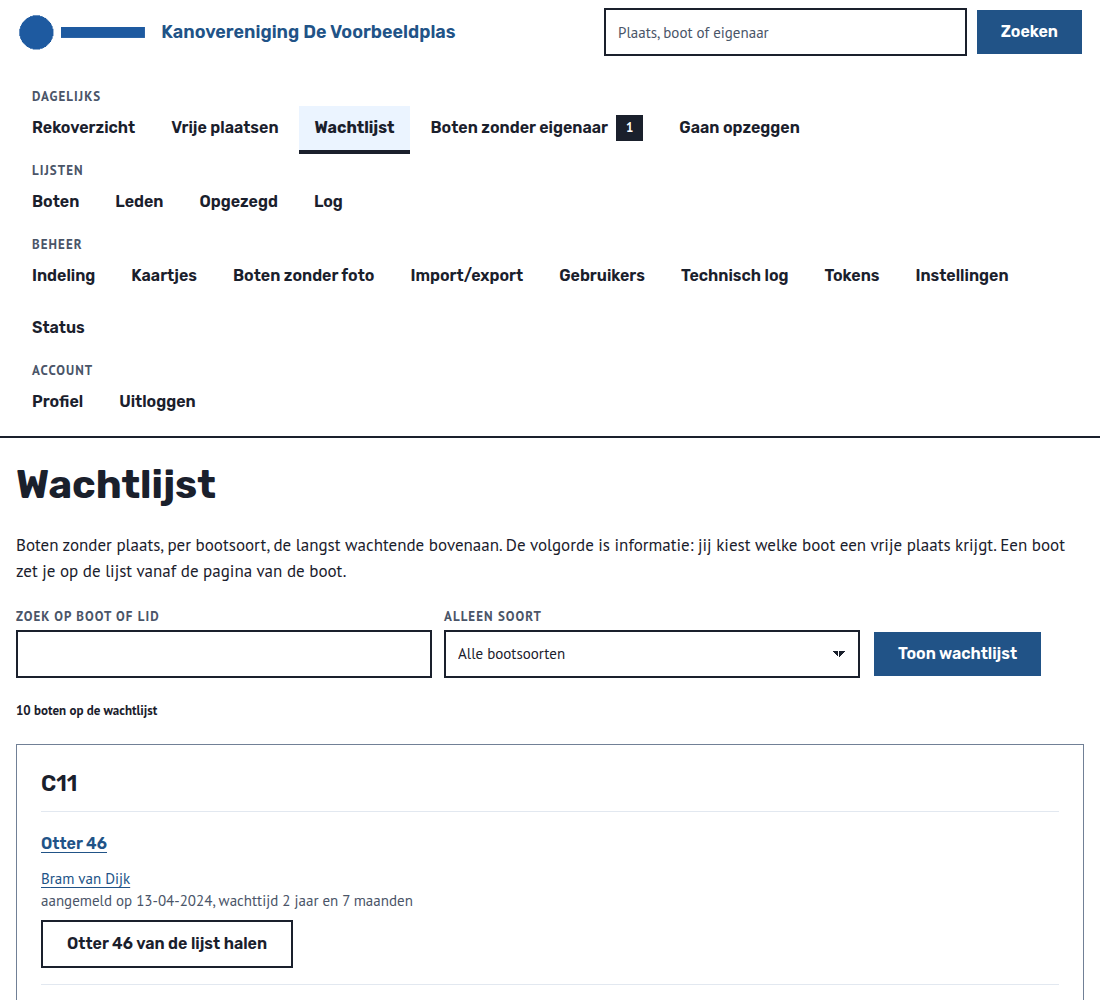
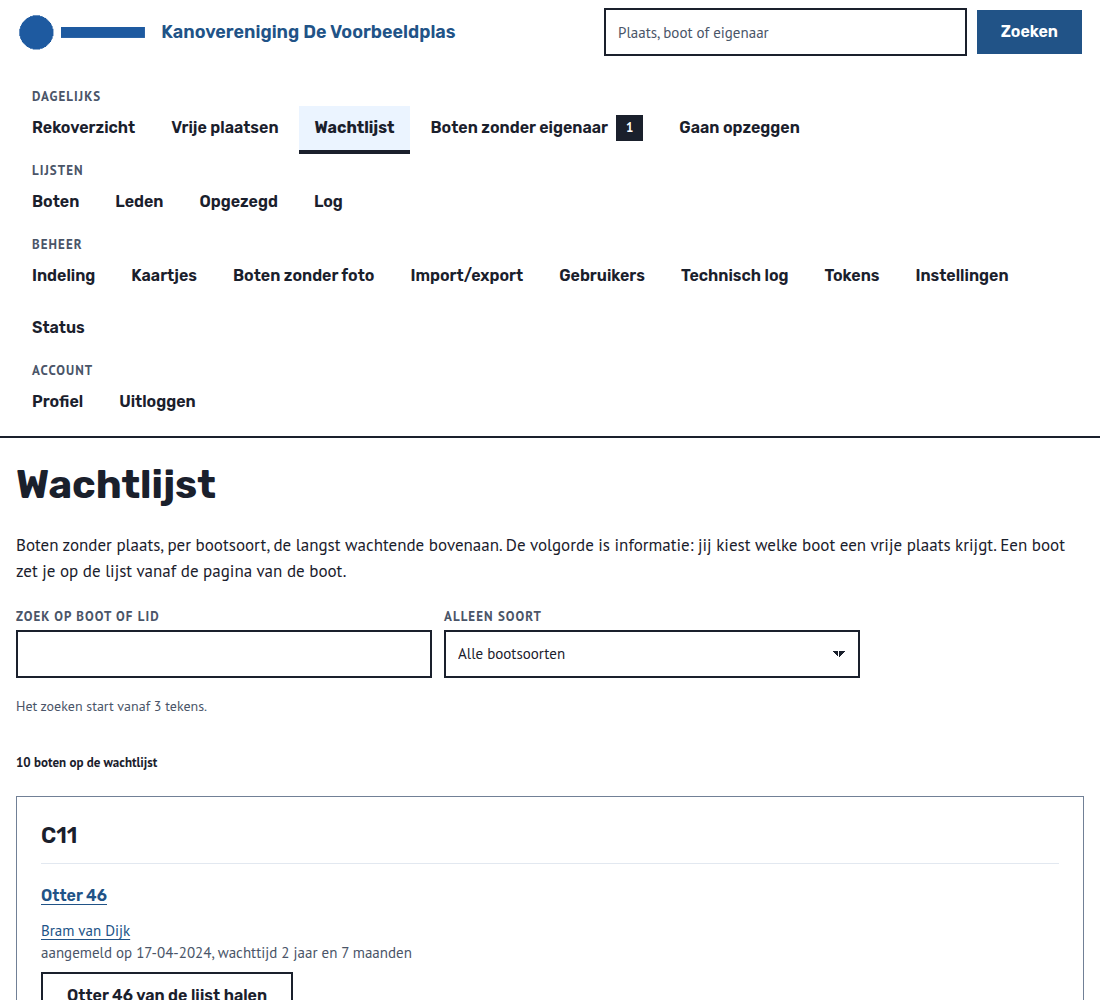
Filters zonder knop: bootsoort direct, zoeken vanaf 3 tekens (#380) (#382)
Op Vrije plaatsen, Wachtlijst en Boten ververst lijstfilter.js alleen het
lijstdeel bij een andere keuze of vanaf 3 tekens in het zoekveld; de focus
blijft staan en een statusveld meldt het aantal. Zonder script blijft de knop
als reserve. ADR-002, backlog, handleiding en schermafbeeldingen bijgewerkt.
Toets Design System (BV-98) verwerkt.

Review: Sentinel en Aegis, akkoord (twee rondes); toets Design System verwerkt

Claude-Session: https://claude.ai/code/session_01Dq19tw8kfJi9T5x7PuYf8y

Changed region(s): [[0.0, 0.744, 0.3709, 1.0], [0.7727, 0.62, 0.9582, 0.682], [0.0, 0.682, 0.1855, 0.713]]

diff --git a/app/web/static/lijstfilter.js b/app/web/static/lijstfilter.js
@@ -1,0 +1,70 @@
+// Filter zonder knop (#380): een keuze of het typen ververst alleen de lijst, niet de pagina.
+// Zonder script blijft de knop in de HTML staan en werkt het formulier als gewone GET.
+(function () {
+  const MIN_TEKENS = 3;
+  const PAUZE_MS = 300;
+  const form = document.querySelector("form[data-lijstfilter]");
+  const deel = document.querySelector("[data-lijstdeel]");
+  const status = document.querySelector("[data-lijststatus]");
+  if (!form || !deel || !status) return;
+
+  const zoek = form.elements.zoek;
+  let timer;
+  let aanvraag;
+
+  // De URL is die van het formulier; onder het minimum geldt de zoekterm niet.
+  function adres() {
+    const params = new URLSearchParams(new FormData(form));
+    if (zoek && zoek.value.trim().length < MIN_TEKENS) params.set("zoek", "");
+    return form.getAttribute("action") + "?" + params;
+  }
+
+  let laatste = adres();
+
+  async function vernieuw() {
+    clearTimeout(timer);
+    const url = adres();
+    if (url === laatste) return;
+    laatste = url;
+    if (aanvraag) aanvraag.abort();
+    aanvraag = new AbortController();
+    try {
+      const r = await fetch(url, { credentials: "same-origin", signal: aanvraag.signal });
+      const nieuw = new DOMParser().parseFromString(await r.text(), "text/html").querySelector("[data-lijstdeel]");
+      // Een fout of een inlogscherm (verlopen sessie) heeft geen lijst: laad de pagina gewoon.
+      if (!r.ok || !nieuw) {
+        window.location.assign(url);
+        return;
+      }
+      const melding = nieuw.querySelector(".bl-aantal, .ds-notice__body");
+      // Eerst leeg: een gelijke tekst wordt anders niet opnieuw voorgelezen.
+      status.textContent = "";
+      status.textContent = melding ? melding.textContent.trim() : "";
+      deel.replaceChildren(...nieuw.childNodes);
+      history.replaceState(null, "", url);
+    } catch (e) {
+      if (e.name !== "AbortError") window.location.assign(url);
+    }
+  }
+
+  form.querySelector('button[type="submit"]').hidden = true;
+  const hint = form.querySelector("[data-zoekhint]");
+  if (hint) {
+    hint.hidden = false;
+    zoek.setAttribute("aria-describedby", hint.id);
+  }
+
+  form.addEventListener("submit", function (e) {
+    e.preventDefault();
+    vernieuw();
+  });
+  form.addEventListener("change", function (e) {
+    if (e.target.tagName === "SELECT") vernieuw();
+  });
+  if (zoek) {
+    zoek.addEventListener("input", function () {
+      clearTimeout(timer);
+      timer = setTimeout(vernieuw, PAUZE_MS);
+    });
+  }
+})();

diff --git a/app/web/templates/wachtlijst.html b/app/web/templates/wachtlijst.html
@@ -6,10 +6,11 @@
 <h1>Wachtlijst</h1>
 <p>Boten zonder plaats, per bootsoort, de langst wachtende bovenaan. De volgorde is informatie: jij kiest welke boot een vrije plaats krijgt. Een boot zet je op de lijst vanaf de pagina van de boot.</p>
 
-<form class="bl-filter" method="get" action="{{ url_for('web.wachtlijst_overzicht') }}" role="search" aria-label="Zoeken in Wachtlijst">
+<form class="bl-filter" method="get" action="{{ url_for('web.wachtlijst_overzicht') }}" role="search" aria-label="Zoeken in Wachtlijst" data-lijstfilter>
   <div class="ds-field">
     <label class="ds-field__label" for="wacht-zoek">Zoek op boot of lid</label>
     <input class="ds-input" type="search" id="wacht-zoek" name="zoek" value="{{ zoek }}" maxlength="100">
+    <p class="ds-field__hint" id="wacht-zoek-hint" data-zoekhint hidden>Het zoeken start vanaf 3 tekens.</p>
   </div>
   <div class="ds-field">
     <label class="ds-field__label" for="wacht-soort">Alleen soort</label>
@@ -20,6 +21,8 @@
   </div>
   <button type="submit" class="ds-btn ds-btn--primary">Toon wachtlijst</button>
 </form>
+<p class="dj-sr-only" role="status" data-lijststatus></p>
+<div data-lijstdeel>
 {% if lijsten %}
 {% set totaal = lijsten|sum(attribute=1, start=[])|length %}
 <p class="bl-aantal">{{ totaal }} {{ 'boot' if totaal == 1 else 'boten' }} op de wachtlijst</p>
@@ -46,6 +49,8 @@
 {% else %}
 {% call meldingblok() %}{{ 'Geen boten gevonden.' if zoek or soort_id else 'Er staan geen boten op de wachtlijst.' }}{% endcall %}
 {% endfor %}
+</div>
 
 {{ logblok(regels) }}
 {% endblock %}
+{% block scripts %}<script src="{{ url_for('static', filename='lijstfilter.js') }}"></script>{% endblock %}

diff --git a/app/web/templates/boten.html b/app/web/templates/boten.html
@@ -35,10 +35,11 @@
 </details>
 {% endif %}
 
-<form class="bl-filter" method="get" action="{{ url_for('web.boten_overzicht') }}" role="search" aria-label="Zoeken in Boten">
+<form class="bl-filter" method="get" action="{{ url_for('web.boten_overzicht') }}" role="search" aria-label="Zoeken in Boten" data-lijstfilter>
   <div class="ds-field">
     <label class="ds-field__label" for="boten-zoek">{{ "Zoek op boot of eigenaar" if is_kijker() else "Zoek op boot of lid" }}</label>
     <input class="ds-input" type="search" id="boten-zoek" name="zoek" value="{{ zoek }}" maxlength="100">
+    <p class="ds-field__hint" id="boten-zoek-hint" data-zoekhint hidden>Het zoeken start vanaf 3 tekens.</p>
   </div>
   <div class="ds-field">
     <label class="ds-field__label" for="boten-soort">Alleen soort</label>
@@ -49,6 +50,8 @@
   </div>
   <button type="submit" class="ds-btn ds-btn--primary">Toon boten</button>
 </form>
+<p class="dj-sr-only" role="status" data-lijststatus></p>
+<div data-lijstdeel>
 {% if boten %}
 <p class="bl-aantal">{{ boten|length }} {{ 'boot' if boten|length == 1 else 'boten' }}</p>
 <ul class="bl-lijst">
@@ -62,5 +65,7 @@
 {% else %}
 {% call meldingblok() %}{{ 'Geen boten gevonden.' if zoek or soort_id else 'Er zijn nog geen boten.' }}{% endcall %}
 {% endif %}
+</div>
 {{ logblok(regels) }}
 {% endblock %}
+{% block scripts %}<script src="{{ url_for('static', filename='lijstfilter.js') }}"></script>{% endblock %}

diff --git a/app/web/templates/vrij.html b/app/web/templates/vrij.html
@@ -6,7 +6,7 @@
 <h1>Vrije plaatsen</h1>
 <p>Plaatsen zonder boot, voor boten van leden. Clubplaatsen staan er niet in.</p>
 
-<form method="get" action="{{ url_for('web.vrije_plaatsen') }}" class="bl-filter">
+<form method="get" action="{{ url_for('web.vrije_plaatsen') }}" class="bl-filter" data-lijstfilter>
   <div class="ds-field">
     <label class="ds-field__label" for="bootsoort">Geschikt voor</label>
     <select class="dj-select" id="bootsoort" name="bootsoort"{% if gekozen %} autofocus{% endif %}>
@@ -19,6 +19,8 @@
   <button type="submit" class="ds-btn ds-btn--primary">Toon vrije plaatsen</button>
 </form>
 
+<p class="dj-sr-only" role="status" data-lijststatus></p>
+<div data-lijstdeel>
 {% if plaatsen %}
 <p class="bl-aantal">{{ plaatsen|length }} {{ 'vrije plaats' if plaatsen|length == 1 else 'vrije plaatsen' }}{% if gekozen %} voor {{ gekozen.naam|lower }}{% endif %}</p>
 <div class="ds-table-wrap">
@@ -38,6 +40,8 @@
 {% else %}
 {% call meldingblok() %}Er zijn geen vrije plaatsen{% if gekozen %} voor {{ gekozen.naam|lower }}{% endif %}.{% endcall %}
 {% endif %}
+</div>
 
 {{ logblok(regels) }}
 {% endblock %}
+{% block scripts %}<script src="{{ url_for('static', filename='lijstfilter.js') }}"></script>{% endblock %}

diff --git a/app/web/static/stijl.css b/app/web/static/stijl.css
@@ -165,11 +165,14 @@ td form { gap: var(--space-2); }
   .blad:last-child { break-after: auto; }
 }
 
-/* Vrije plaatsen (BV-44): keuzelijst en knop op een regel, aantal eronder; op een telefoon een kaart per plaats */
+/* Filters (BV-44, #380): velden en, zonder script, de knop op een regel, aantal eronder; zonder knop (script) staan de velden bovenaan; op een telefoon een kaart per plaats */
 .bl-filter { display: flex; flex-wrap: wrap; align-items: end; gap: var(--space-3); margin: 0; }
 .bl-filter .ds-field { flex: 1 1 16rem; max-width: 26rem; }
 .bl-filter .ds-btn { min-height: var(--control-height); }
+.bl-filter:has(> .ds-btn[hidden]) { align-items: start; }
 .bl-aantal { margin: 0; color: var(--ink); font: var(--type-label); }
+/* #380: het lijstdeel dat lijstfilter.js vervangt, met dezelfde ruimte als de kinderen van main */
+.bl-main > [data-lijstdeel] { display: grid; gap: var(--space-5); }
 @media (width < 40rem) {
   .bl-vrij tr { display: grid; grid-template-columns: 1fr 1fr; column-gap: var(--space-4); margin-bottom: var(--space-3); padding-block: var(--space-1); }
   .bl-vrij td { gap: 0; padding-block: var(--space-1); }

diff --git a/tests/e2e/test_lijstfilter.py b/tests/e2e/test_lijstfilter.py
@@ -1,0 +1,87 @@
+"""Filters zonder knop (#380) op /vrij, /wachtlijst en /boten: een andere keuze filtert direct, zoeken
+begint bij 3 tekens, alleen de lijst ververst en de focus blijft staan. Zonder script werkt de knop.
+Eén inlogverzoek; de boten heten Zxq en Yxq met de stempel, zodat alleen de eigen rijen tellen."""
+
+import re
+
+from conftest import STEMPEL, reknaam, wachtwoord_instellen
+from playwright.sync_api import expect
+from test_loods import boot_vastleggen, rek_met_plaats
+
+PAUZE_MS = 800  # ruim boven de 300 ms wachttijd na het typen
+
+
+def op_de_wachtlijst(page, naam, soort):
+    boot_vastleggen(page, naam, soort, eigenaar_index=2)
+    page.get_by_role("button", name="Op de wachtlijst zetten").click()
+    expect(page.get_by_text("De boot staat op de wachtlijst.")).to_be_visible()
+
+
+def test_filters_zonder_knop_op_vrij_wachtlijst_en_boten(page, browser, base_url):
+    wachtwoord_instellen(page, "lijstfilter")
+    ski = rek_met_plaats(page, reknaam("lfs"), ["Surfski"])
+    kajak = rek_met_plaats(page, reknaam("lfk"), ["Kajak"])
+    zxq, yxq = f"Zxq {STEMPEL}", f"Yxq {STEMPEL}"
+    op_de_wachtlijst(page, zxq, "Kajak")
+    op_de_wachtlijst(page, yxq, "Surfski")
+    meldingen, verzoeken = [], []
+    page.on("console", lambda m: meldingen.append(m.text) if m.type == "error" else None)  # ook een CSP-fout
+    page.on("request", lambda r: verzoeken.append(r.url) if r.resource_type in ("fetch", "xhr") else None)
+
+    # Een keuze zonder klik: de knop is weg, de lijst verandert, de focus blijft, de URL volgt het formulier.
+    for pad, knop, label, eigen, vreemd in (
+            ("/vrij", "Toon vrije plaatsen", "Geschikt voor", ski, kajak),
+            ("/wachtlijst", "Toon wachtlijst", "Alleen soort", yxq, zxq),
+            ("/boten", "Toon boten", "Alleen soort", yxq, zxq)):
+        page.goto(pad)
+        expect(page.locator("main").get_by_role("button", name=knop)).to_be_hidden()
+        page.get_by_label(label).focus()  # select_option zet de focus niet zelf
+        page.get_by_label(label).select_option(label="Surfski")
+        expect(page).to_have_url(re.compile(rf"{pad}\?(zoek=&)?bootsoort=\d+$"))
+        expect(page.get_by_role("link", name=eigen, exact=True)).to_be_visible()
+        expect(page.get_by_role("link", name=vreemd, exact=True)).to_have_count(0)
+        expect(page.get_by_label(label)).to_be_focused()
+        expect(page.get_by_role("status").filter(has_text=re.compile(r"^\d+ "))).to_have_count(1)  # het aantal treffers
+        page.get_by_label(label).select_option(label="Alle bootsoorten")
+        expect(page.get_by_role("link", name=vreemd, exact=True)).to_be_visible()
+        expect(page).to_have_url(re.compile(rf"{pad}\?(zoek=&)?bootsoort=$"))
+
+    # Zoeken: 2 tekens geen zoekactie, 3 tekens wel, de focus blijft in het zoekveld, wissen toont alles.
+    for pad, label in (("/wachtlijst", "Zoek op boot of lid"), ("/boten", "Zoek op boot of lid")):
+        page.goto(pad)
+        veld = page.get_by_label(label)
+        expect(page.get_by_text("Het zoeken start vanaf 3 tekens.")).to_be_visible()
+        expect(veld).to_have_attribute("aria-describedby", re.compile(r"-zoek-hint$"))  # het script koppelt de hint
+        verzoeken.clear()
+        veld.press_sequentially("Zx", delay=50)
+        page.wait_for_timeout(PAUZE_MS)
+        assert not verzoeken, verzoeken
+        expect(page.get_by_role("link", name=yxq, exact=True)).to_be_visible()
+        expect(page).not_to_have_url(re.compile("Zx"))
+        veld.press_sequentially("q", delay=50)
+        expect(page.get_by_role("link", name=yxq, exact=True)).to_have_count(0)
+        expect(page.get_by_role("link", name=zxq, exact=True)).to_be_visible()
+        expect(page).to_have_url(re.compile(r"zoek=Zxq"))
+        expect(veld).to_be_focused()
+        veld.press("Backspace")  # terug onder de 3 tekens: de term geldt niet meer
+        expect(page.get_by_role("link", name=yxq, exact=True)).to_be_visible()
+        expect(veld).to_be_focused()
+    assert not meldingen, meldingen
+
+    # Zonder JavaScript staat de knop er en filtert hij met een gewone GET.
+    kaal = browser.new_context(base_url=base_url, java_script_enabled=False,
+                               storage_state=page.context.storage_state()).new_page()
+    kaal.goto("/wachtlijst")
+    expect(kaal.get_by_label("Zoek op boot of lid")).not_to_have_attribute("aria-describedby", re.compile("."))
+    expect(kaal.get_by_text("Het zoeken start vanaf 3 tekens.")).to_be_hidden()
+    for pad, knop, label in (("/vrij", "Toon vrije plaatsen", "Geschikt voor"),
+                             ("/wachtlijst", "Toon wachtlijst", "Alleen soort"),
+                             ("/boten", "Toon boten", "Alleen soort")):
+        kaal.goto(pad)
+        kaal.get_by_label(label).select_option(label="Surfski")
+        kaal.locator("main").get_by_role("button", name=knop).click()
+        kaal.wait_for_url(re.compile(rf"{pad}\?(zoek=&)?bootsoort=\d+$"))
+        expect(kaal.get_by_label(label).locator("option:checked")).to_have_text("Surfski")
+        vreemd = kajak if pad == "/vrij" else zxq
+        expect(kaal.get_by_role("link", name=vreemd, exact=True)).to_have_count(0)
+    kaal.close()

diff --git a/tests/unit/test_overzichten_en_instellingen.py b/tests/unit/test_overzichten_en_instellingen.py
@@ -52,15 +52,32 @@ def test_vrije_plaatsen_zonder_bezet_en_clubplaats(app):
     assert indeling.vrije_plaatsen(soort("Supboard")) == []
 
 
-def test_vrije_plaatsen_filter_met_zichtbare_knop_zonder_script_en_focus(ingelogd):  # noqa: F811
+def test_vrije_plaatsen_filter_met_knop_als_reserve_en_focus(ingelogd):  # noqa: F811
     loods()
     zonder = ingelogd.get("/vrij").text
     assert re.search(r'<button type="submit" class="ds-btn ds-btn--primary">Toon vrije plaatsen</button>', zonder)
-    assert "<noscript" not in zonder and "Filteren" not in zonder, "de knop staat er altijd"
-    assert "<script" not in zonder and "vrij.js" not in zonder and "onchange" not in zonder, "geen script"
+    assert "<noscript" not in zonder and "Filteren" not in zonder, "de knop staat in de HTML; het script verbergt hem"
+    assert "onchange" not in zonder, "geen inline script"
     assert "autofocus" not in zonder, "autofocus zonder gekozen bootsoort"
     met = ingelogd.get(f"/vrij?bootsoort={soort('Surfski')}").text
     assert re.search(r'<select[^>]* id="bootsoort"[^>]* autofocus', met), "autofocus met gekozen bootsoort"
+
+
+@pytest.mark.parametrize("pad, knop, zoekveld", [
+    ("/vrij", "Toon vrije plaatsen", False), ("/wachtlijst", "Toon wachtlijst", True),
+    ("/boten", "Toon boten", True)])
+def test_lijstfilter_markup_voor_het_script_op_vrij_wachtlijst_en_boten(ingelogd, pad, knop, zoekveld):  # noqa: F811
+    """#380: het script vervangt alleen [data-lijstdeel] (aantal en lijst, niet het log), meldt het aantal in een
+    statusveld buiten dat deel, en verbergt de knop die in de HTML blijft."""
+    loods()
+    tekst = ingelogd.get(pad).text
+    assert tekst.count('<script src="/static/lijstfilter.js">') == 1 and "<script>" not in tekst, "eigen bestand"
+    assert tekst.count("data-lijstfilter") == 1 and f">{knop}</button>" in tekst
+    assert tekst.count('role="status" data-lijststatus') == 1 and tekst.count("data-lijstdeel") == 1
+    assert tekst.index("data-lijststatus") < tekst.index("data-lijstdeel"), "het statusveld wordt niet vervangen"
+    assert re.search(r'<div data-lijstdeel>\s*(<p class="bl-aantal">|<div class="ds-notice)', tekst), "aantal of melding eerst"
+    assert ("data-zoekhint hidden" in tekst) is zoekveld, "de hint voor 3 tekens alleen waar een zoekveld staat"
+    assert ingelogd.get("/static/lijstfilter.js").status_code == 200
 
 
 def test_vrije_plaatsen_aantal_enkelvoud_meervoud_en_zonder_soort(ingelogd):  # noqa: F811

diff --git a/tests/e2e/test_overzichten.py b/tests/e2e/test_overzichten.py
@@ -32,18 +32,16 @@ def test_vrije_plaatsen_indeling_op_telefoon_en_export(page):
     meldingen = []
     page.on("console", lambda m: meldingen.append(m.text) if m.type == "error" else None)
     page.goto("/vrij")
+    page.get_by_label("Geschikt voor").focus()  # select_option zet de focus niet zelf
     page.get_by_label("Geschikt voor").select_option(label="Surfski")
-    expect(page).to_have_url(re.compile(r"/vrij$"))  # de keuzelijst verstuurt niet zelf (WCAG 3.2.2)
-    page.get_by_role("button", name="Toon vrije plaatsen").click()
-    page.wait_for_url(re.compile(r"/vrij\?bootsoort=\d+$"))
+    page.wait_for_url(re.compile(r"/vrij\?bootsoort=\d+$"))  # de keuze filtert zelf, zonder knop (#380)
     expect(page.get_by_label("Geschikt voor")).to_be_focused()
     expect(page.get_by_role("link", name=ski, exact=True)).to_be_visible()
     expect(page.get_by_role("link", name=club, exact=True)).to_have_count(0)
     expect(page.get_by_role("link", name=kajak, exact=True)).to_have_count(0)
-    for rij in page.locator("main > .ds-table-wrap > table tbody tr").all():
+    for rij in page.locator("main [data-lijstdeel] table tbody tr").all():
         expect(rij.locator("td").nth(2)).to_contain_text("Surfski")
     page.get_by_label("Geschikt voor").select_option(label="Alle bootsoorten")
-    page.get_by_role("button", name="Toon vrije plaatsen").click()
     page.wait_for_url(re.compile(r"/vrij\?bootsoort=$"))
     expect(page.get_by_role("link", name=kajak, exact=True)).to_be_visible()
     expect(page.get_by_role("link", name=ski, exact=True)).to_be_visible()

diff --git a/tests/e2e/test_bezetting_csv.py b/tests/e2e/test_bezetting_csv.py
@@ -109,7 +109,7 @@ def test_bezetting_exporteren_aangepast_importeren_koppelen_en_opnieuw_importere
     page.locator("summary", has_text="Log").click()  # het log is een dicht uitklapblok
     expect(page.get_by_text("plaats vrijgegeven").first).to_be_visible()
     page.goto("/boten")
-    kievit = page.locator("main > ul.bl-lijst > li").filter(has=page.get_by_role("link", name=f"Kievit {rek}", exact=True))
+    kievit = page.locator("main ul.bl-lijst > li").filter(has=page.get_by_role("link", name=f"Kievit {rek}", exact=True))
     expect(kievit).to_contain_text("geen plaats")  # Kievit is overschreven en heeft geen plaats meer
 
     # Opnieuw importeren: de koppeling is onthouden, dus geen enkele regel is nog te koppelen.

diff --git a/documentatie/gebruikers/schermafbeeldingen.py b/documentatie/gebruikers/schermafbeeldingen.py
@@ -248,7 +248,6 @@ def schermen(browser):
     # Overzichten.
     page.goto("/vrij")
     page.get_by_label("Geschikt voor").select_option(label="Kajak")
-    page.get_by_role("button", name="Toon vrije plaatsen").click()
     page.wait_for_url(re.compile(r"/vrij\?bootsoort=\d+$"))
     o.maak("vrij", hoogte=700)
     page.goto("/wachtlijst")

diff --git a/tests/e2e/test_onbekende_eigenaar.py b/tests/e2e/test_onbekende_eigenaar.py
@@ -19,7 +19,7 @@ from test_loods import (
 
 
 def regel_van(page, boot):
-    return page.locator("main > ul.bl-lijst > li").filter(has=page.get_by_role("link", name=boot, exact=True))
+    return page.locator("main ul.bl-lijst > li").filter(has=page.get_by_role("link", name=boot, exact=True))
 
 
 def zonder_scroll(page):

diff --git a/docs/architecture/adr/ADR-002-frontendaanpak.md b/docs/architecture/adr/ADR-002-frontendaanpak.md
@@ -2,7 +2,7 @@
 
 **Status:** Besloten door Foundation
 **Datum:** 2026-10-30
-**Versie:** v1.2.6
+**Versie:** v1.2.7
 **Stories:** alle schermen, vooral BLB-016, BLB-020, BLB-021, BLB-027
 
 ## Context
@@ -16,8 +16,8 @@ Het lastigste scherm is de indeling per rek (BLB-016): 229 plaatsen met status, 
 De interface is server-rendered met Jinja-templates en gewone HTML-formulieren. Er is geen JavaScript-framework en geen build-stap.
 
 - **Styling:** de tokens en componenten komen uit de Dajaks-basis 0.3.0, afgenomen met `basis/afname.py` in `app/web/static/ds/` (met `ds-manifest.json`). De aanvulling `dj-components.css` staat niet in de afname en is gekopieerd naar `app/web/static/dj/`, zodat de conformiteitscontrole van de basis slaagt. Laadvolgorde: `ds/tokens/dajaks.css`, `ds/ds-components.css`, `dj/dj-components.css`, `stijl.css`. Templates gebruiken `ds-` en `dj-` klassen. `stijl.css` bevat alleen wat de basis niet kent (de `bl-`klassen van blok 1: pagina, kop en menu, rekraster en indelingsformulier; printkaartjes, `.qr`, `.foto` en log) en gebruikt alleen `var(--token)` en geen vaste kleur. Een `.ds-` of `.dj-` klasse komt alleen voor onder een `bl-`klasse als producthaak, nooit als losse selector. Rubik en PT Sans komen als woff2 uit `/static`, zonder externe bron. Alleen het lichte thema; de kaartjes blijven licht. De kleuren zijn niet instelbaar: `/huisstijl.css` en de kleurkiezers zijn vervallen. De naam van de vereniging staat als tekst in de template.
-- **Responsive:** mobile first met CSS grid en flexbox. Tabellen worden op smalle schermen kaarten per rij. De lijsten Boten, Leden, Opgezegd, Gaan opzeggen en Wachtlijst zijn geen tabel maar een `ul.bl-lijst` met per item titel, subregel en zijkant (lijstpatroon 1B, BV-46); alleen de importruns op Leden blijven een tabel. Elke lijst heeft een zoekveld met een zichtbare knop en het aantal erboven; het zoeken is een "bevat" zonder onderscheid in hoofdletters of accenten (`jose` vindt `José` en andersom): kolom en zoektekst gaan door de functie `unaccent` van de PostgreSQL-extensie `unaccent`, die migratie 0021 aanmaakt (de extensie is vertrouwd, dus de eigenaar van de database volstaat; de rollen web, api en worker hebben geen extra recht nodig en `docker/db-init.sh` blijft gelijk; de escape van `%`, `_` en `\` komt na `unaccent`). Boten en Wachtlijst hebben daarnaast het soortfilter (`bootsoort`). Een genormaliseerde kolom is niet gekozen: die moet bij elke schrijfweg en bij de import worden bijgehouden. Het raster van een rek (indeling en rekoverzicht) schuift op een telefoon horizontaal, met een vaste kolom voor de verdieping. Het Rekoverzicht (`/rekoverzicht`, alleen beheerders) toont dat raster met een plaatje per plaats uit `static/boten/`; een bootsoort zonder plaatje toont de naam als tekst, en de alt-tekst noemt plaatscode, bootsoort en status.
-- **JavaScript:** alleen waar het niet anders kan: het passkeyscript (ADR-001). Verwijderen vraagt geen bevestiging (BV-60). Het filter op `/vrij` werkt zonder script: de knop **Toon vrije plaatsen** is er altijd en de keuzelijst verstuurt niet zelf (WCAG 3.2.2). Dit vervangt issue #99 (filter zonder knop, gesloten). De keuzepagina voor kaartjes (`/kaartjes`) werkt zonder script: de selectievakjes **Alle plaatsen** en **Heel <rek>** laten de server de plaatsen bepalen (ADR-011). Gewone bestanden in `static/`, zonder bundler.
+- **Responsive:** mobile first met CSS grid en flexbox. Tabellen worden op smalle schermen kaarten per rij. De lijsten Boten, Leden, Opgezegd, Gaan opzeggen en Wachtlijst zijn geen tabel maar een `ul.bl-lijst` met per item titel, subregel en zijkant (lijstpatroon 1B, BV-46); alleen de importruns op Leden blijven een tabel. Elke lijst heeft een zoekveld en het aantal erboven; op Leden, Opgezegd en Gaan opzeggen met een zichtbare knop, op Boten en Wachtlijst met de knop als reserve zonder script (#380); het zoeken is een "bevat" zonder onderscheid in hoofdletters of accenten (`jose` vindt `José` en andersom): kolom en zoektekst gaan door de functie `unaccent` van de PostgreSQL-extensie `unaccent`, die migratie 0021 aanmaakt (de extensie is vertrouwd, dus de eigenaar van de database volstaat; de rollen web, api en worker hebben geen extra recht nodig en `docker/db-init.sh` blijft gelijk; de escape van `%`, `_` en `\` komt na `unaccent`). Boten en Wachtlijst hebben daarnaast het soortfilter (`bootsoort`). Een genormaliseerde kolom is niet gekozen: die moet bij elke schrijfweg en bij de import worden bijgehouden. Het raster van een rek (indeling en rekoverzicht) schuift op een telefoon horizontaal, met een vaste kolom voor de verdieping. Het Rekoverzicht (`/rekoverzicht`, alleen beheerders) toont dat raster met een plaatje per plaats uit `static/boten/`; een bootsoort zonder plaatje toont de naam als tekst, en de alt-tekst noemt plaatscode, bootsoort en status.
+- **JavaScript:** alleen waar het niet anders kan: het passkeyscript (ADR-001) en `lijstfilter.js` (#380). Verwijderen vraagt geen bevestiging (BV-60). De filters op `/vrij`, `/wachtlijst` en `/boten` werken ook zonder script: het formulier is een gewone GET met een knop in de HTML. `lijstfilter.js` verbergt die knop, haalt bij een andere keuze (of vanaf 3 tekens in het zoekveld, na ongeveer 300 ms) dezelfde URL op, vervangt alleen het lijstdeel (`[data-lijstdeel]`: aantal en lijst), meldt het aantal in een statusveld (`role="status"`) en zet de URL met `history.replaceState`. De focus blijft staan; een fout of een inlogscherm laadt de pagina gewoon. Er is geen nieuwe route en geen inline script (CSP `script-src 'self'`). Dit vervangt de regel over een zichtbare knop (WCAG 3.2.2; vervolgbesluit BV-98 van design system) en issue #99. De keuzepagina voor kaartjes (`/kaartjes`) werkt zonder script: de selectievakjes **Alle plaatsen** en **Heel <rek>** laten de server de plaatsen bepalen (ADR-011). Gewone bestanden in `static/`, zonder bundler.
 - **Toegankelijkheid:** semantische HTML, labels bij elk veld, voldoende contrast. De kleurparen van de basis zijn getoetst door het design system; een waarschuwing bij slecht leesbare kleuren is niet meer nodig. Tabellen worden onder 40rem kaarten (`dj-table--stack`) met `data-label` op elke `td` en ARIA-rollen op tabel, rij en cel.
 - **Print:** de kaartjes zijn een HTML-pagina met print-CSS (`@page`, raster op A4). De beheerder print via de browser of slaat op als pdf (ADR-011).
 - **CSP:** Traefik stuurt (ADR-013) een strikte Content Security Policy zonder inline scripts. Inline styles zijn niet nodig: alle stijl staat in bestanden onder `/static`, zodat de CSP geen nonce of uitzondering nodig heeft.
@@ -42,6 +42,7 @@ De interface is server-rendered met Jinja-templates en gewone HTML-formulieren. 
 
 | Versie | Datum | Wijziging | Reden |
 |--------|-------|-----------|-------|
+| v1.2.7 | 2026-11-23 | Filters op Vrije plaatsen, Wachtlijst en Boten zonder knop met `lijstfilter.js`; de knop blijft als reserve zonder script | Besluiten stakeholder 2026-11-23, issue #380 |
 | v1.2.6 | 2026-11-18 | Kijker als gebruiker | ADR-015, issue #322 |
 | v1.2.5 | 2026-11-11 | Omvang 229 plaatsen volgens de echte indeling | Issue #236 |
 | v1.2.4 | 2026-11-11 | Zoeken zonder onderscheid in accenten via de extensie `unaccent` (migratie 0021) | Issue #232 |
